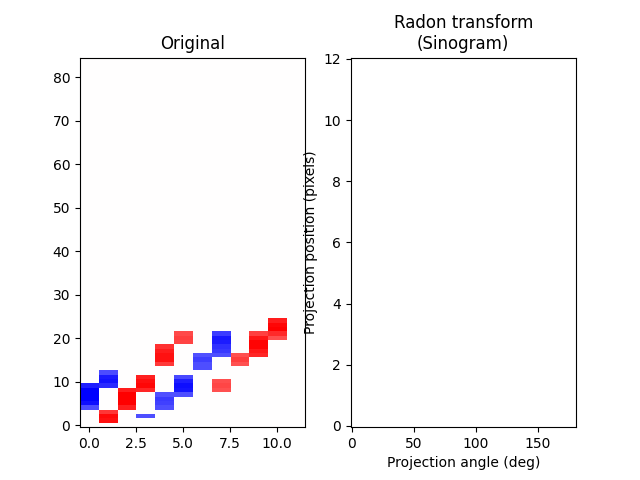
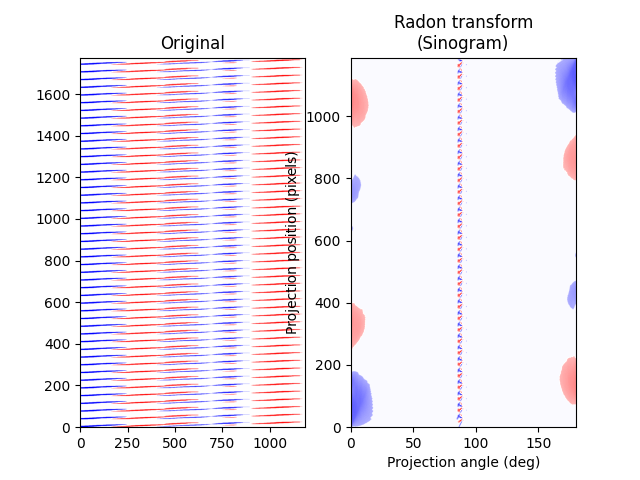
refractor

diff --git a/RadonWake.py b/RadonWake.py
@@ -38,14 +38,16 @@ from DASFilter import bandpass_f,WeightMatrix
 from numpy import NaN
 import skimage 
 from skimage.transform import radon
+from scipy import stats
+
 def PlotRadon(ShowDataSlice):
     fig, (ax1, ax2) = plt.subplots(1, 2)
     ax1.set_title("Original")
     ax1.imshow(ShowDataSlice, aspect='auto',cmap="bwr",origin='lower',vmin=-3,vmax=3)
     theta = np.linspace(0., 180., max(ShowDataSlice.shape), endpoint=False)
-    #theta=np.linspace(0.0,180.0,18000)
+    #theta=np.linspace(0.0,180.0,12,endpoint=False)
     sinogram = radon(ShowDataSlice, theta=theta)
-
+    print(sinogram.shape)
     sinogram=(sinogram-np.mean(sinogram))/np.std(sinogram,ddof=1)
     STD=2*np.std(sinogram,ddof=1)
     sinogram=((sinogram>STD)|(sinogram<-STD))*sinogram
@@ -63,15 +65,19 @@ def PlotRadon(ShowDataSlice):
 
 def SpeedOnRadon(sinogram,resolution,channel_spacing,fs,scaling,WAVEDIRECT):
 #求解最大的斜率
-   
+    
     #求解最大的斜率，平均每行的最大值索引
+    #sinogram=abs(sinogram)
     deg_y_list=[]
     sino=[]
     for i in range(0,sinogram.shape[0]):
         sino.append(np.max(sinogram[i,:]))
-        if WAVEDIRECT==0:
+        if WAVEDIRECT==0:  #考虑45-90
             deg_y=np.argmax(sinogram[i,0:int(sinogram.shape[1]/2)])%sinogram.shape[1]/resolution*180
-        elif WAVEDIRECT==1:
+            deg_y=(int(sinogram.shape[1]/4)+np.argmax(sinogram[i,int(sinogram.shape[1]/4):int(sinogram.shape[1]/2)]))%sinogram.shape[1]/resolution*180
+            #print(deg_y)
+
+        elif WAVEDIRECT==1: #考虑135-180
             deg_y=(int(sinogram.shape[1]/2)+np.argmax(sinogram[i,int(sinogram.shape[1]/2):-1]))%sinogram.shape[1]/resolution*180
         else:
             deg_y=np.argmax(sinogram[i,:])%sinogram.shape[1]/resolution*180
@@ -84,11 +90,11 @@ def SpeedOnRadon(sinogram,resolution,channel_spacing,fs,scaling,WAVEDIRECT):
     if tan(radians(np.mean(deg_y_list)))==0:
         s1=NaN
     else:
-        s1=1/tan(radians(np.mean(deg_y_list)))*channel_spacing*fs/scaling
+        s1=1/tan(radians(np.mean(deg_y_list)))*channel_spacing*fs/(scaling)
     if tan(radians(np.median(deg_y_list)))==0:
         s2=NaN
     else:
-        s2=1/tan(radians(np.median(deg_y_list)))*channel_spacing*fs/scaling
+        s2=1/tan(radians(np.median(deg_y_list)))*channel_spacing*fs/(scaling)
     #print('选取Radon域上前10的最大值所对应的deg\n')
     #print('均值',s1,'中位数',s2)
     return np.mean(deg_y_list),np.median(deg_y_list),s1,s2
@@ -99,3 +105,39 @@ def SNROnRadon(sinogram):
     print('SNR on Radon domain: ',SNR)
     return SNR
 
+
+def ValidationSpeedOnRadon(speed,FILTER_Data,DownSampleRate,channel_spacing,MINTIME,MAXTIME,MINCHANNEL,MAXCHANNEL,Tstart,Tend,Cstart,Cend,threshold):
+    DataCoordX, DataCoordy = FILTER_Data.shape
+
+    TDownSample = slice(0, DataCoordX, int(1000 / DownSampleRate))
+    DataDownSample = FILTER_Data[TDownSample, :]
+
+    #画图展示的数据
+
+    TimeWin = slice(int(MINTIME*60*DownSampleRate), max(-1,int(MAXTIME*60*DownSampleRate)), 1)
+    ShowData=DataDownSample[TimeWin,slice(int(MINCHANNEL*1000/channel_spacing),int(MAXCHANNEL*1000/channel_spacing),1)]
+
+    #对空间维度进行插值，使其接近时间的维度
+
+    #Z-score and threshold filtering
+    #ShowData=(ShowData-np.mean(ShowData))/np.std(ShowData,ddof=1)
+    ShowData = stats.zscore(ShowData, axis=None)
+    STD=threshold*np.std(ShowData,ddof=1)
+    ShowData=((ShowData>STD)|(ShowData<-STD))*ShowData
+    #Prepare data for radon transformation
+
+    
+    TimeWin = slice(int(Tstart*60*DownSampleRate), max(-1,int(Tend*60*DownSampleRate)), 1)
+    Cwin = slice(int(Cstart*1000/channel_spacing),max(-1,int(Cend*1000/channel_spacing)),1)
+    ShowDataSlice=(ShowData[TimeWin,Cwin])
+
+    ShowDataSlice=np.transpose((ShowDataSlice))
+
+    plt.figure()
+    plt.imshow(ShowDataSlice, aspect='auto',cmap="bwr",origin='lower',vmin=-3,vmax=3)
+    x=np.arange(1,ShowDataSlice.shape[1])
+    k=((speed)/(DownSampleRate*channel_spacing))
+    y=k*x
+    plt.plot(x,y)
+    print('Validation!')
+    plt.savefig('validation.png')

diff --git a/Trajectory_filter.py b/Trajectory_filter.py
@@ -34,10 +34,10 @@ from datetime import timedelta
 from DASFileRead import DasFileRead
 from tdms_reader_1 import *
 from AISData import AISData,AnchorShip
-from DASFilter import bandpass_f,DataDiff,WeightMatrix,PlotDAS,DASNR,DASInterpolate
+from DASFilter import bandpass_f,DataDiff,WeightMatrix,PlotDAS,DASNR,DASInterpolate,Dup_Spat_Dim,Dup_Time_Dim
 import skimage 
 from skimage.transform import radon
-from RadonWake import PlotRadon,SpeedOnRadon,SNROnRadon
+from RadonWake import PlotRadon,SpeedOnRadon,SNROnRadon,ValidationSpeedOnRadon
 from scipy import stats
 #%%Params ---------------------------------------
 # filter or not
@@ -54,10 +54,10 @@ WAVEDIRECT=0
 # Z-score and threshold filter
 threshold=2
 #radon transfromation params
-Tstart =1.8 #2.5  #minute
-Tend =2  #5.5   #minute
-Cstart =11.15 #11.15 #1800  #Km
-Cend= 11.5 #11.3 #2500    #Km
+Tstart =1.8 #2.8  #1.8   #minute
+Tend =2# 3 #2     #minute
+Cstart =11.15#10 #11.15 #1800  #Km
+Cend= 11.3#11 #11.3 #2500    #Km
 
 Cstart=max(Cstart-MINCHANNEL,0)
 Cend=min(Cend-MINCHANNEL,MAXCHANNEL)
@@ -146,9 +146,9 @@ FILTER_Data=DataDiff(FILTER_Data,1)
 #降采样
 DataCoordX, DataCoordy = FILTER_Data.shape
 print('DataCoordX',DataCoordX,'DataCoordy',DataCoordy)
-DSR=np.arange(0.1,60,0.2)
+DSR=np.arange(1,100,1)
 #DSR=np.arange(250,1000,20)
-DSR=[1]
+#DSR=[100]
 res=[]
 for DownSampleRate in DSR:
 # 对some_data 进行采样，因为原始数据每秒采样1000，可以降为200个点以方便人为的判断
@@ -175,13 +175,18 @@ for DownSampleRate in DSR:
     TimeWin = slice(int(Tstart*60*DownSampleRate), max(-1,int(Tend*60*DownSampleRate)), 1)
     Cwin = slice(int(Cstart*1000/channel_spacing),max(-1,int(Cend*1000/channel_spacing)),1)
     ShowDataSlice=(ShowData[TimeWin,Cwin])
-       
+
+    ShowDataSlice=Dup_Spat_Dim(ShowDataSlice) #增强空间维度的细节
+    ShowDataSlice=Dup_Time_Dim(ShowDataSlice) #增强时间维度的细节
+
     scaling=round(ShowDataSlice.shape[0]/ShowDataSlice.shape[1],4)
+    channel_spacing_scaling=round((ShowDataSlice.shape[0]-1)/(ShowDataSlice.shape[1]-1),4)
     print('scaling:',scaling,ShowDataSlice.shape)
     if scaling>1:
         ShowDataSlice=DASInterpolate(ShowDataSlice)
     else:
         scaling=1
+        channel_spacing_scaling=1
     print('scaling:',scaling,ShowDataSlice.shape)
 
     ShowDataSlice=np.transpose((ShowDataSlice))
@@ -190,15 +195,16 @@ for DownSampleRate in DSR:
     DASNR(ShowData)
 
     # Radon transformation and analysis
-    print(ShowDataSlice)
+    print(ShowDataSlice.shape)
     sinogram=PlotRadon(ShowDataSlice)
     print("Radon done!")
     snr=SNROnRadon(sinogram)
-    deg_mean,deg_median,s_mean,s_median=SpeedOnRadon(sinogram,max(ShowDataSlice.shape),channel_spacing,DownSampleRate,scaling,WAVEDIRECT)
+    deg_mean,deg_median,s_mean,s_median=SpeedOnRadon(sinogram,max(ShowDataSlice.shape),channel_spacing,DownSampleRate,channel_spacing_scaling,WAVEDIRECT)
     res.append((DownSampleRate,snr,deg_mean,deg_median,s_mean,s_median))
     
     print(DownSampleRate)
-
+    res.append((DownSampleRate,snr,deg_mean,deg_median,s_mean,s_median))
+    
 
 
 RES=pd.DataFrame(res,columns=['DownSampleRate',"snr","deg_mean","deg_median","s_mean",'s_median'])
@@ -230,4 +236,7 @@ s_mean = RES1['s_mean']
 
 print('波线斜率',np.mean(s_mean))
 
-
+#在ShowDataslice上补充波线斜率直线
+speed=30
+DownSampleRate = 1000
+ValidationSpeedOnRadon(speed,FILTER_Data,DownSampleRate,channel_spacing,MINTIME,MAXTIME,MINCHANNEL,MAXCHANNEL,Tstart,Tend,Cstart,Cend,threshold)

diff --git a/BoatSpeedAngel.py b/BoatSpeedAngel.py
@@ -30,7 +30,7 @@ K1=[8.476,8.304,14.97]
 L2=np.array([8,8,8,16,0])
 t2=np.array([4.2,5,12.8,19.2,1])
 K2=L2*1000/(t2*60)
-K2=[27.67,18.512,9.406]
+K2=[18,18.512,9.406]
 #%%
 
 k1=K1[ship]

diff --git a/README.md b/README.md
@@ -20,6 +20,17 @@ Trajectory_filter：1）将关于radon变换以及speed求解的功能重构成R
 
 Trajectory_filter: 1)重构PlotDAS功能以及计算DAS图像的SNR, 调整X轴和Y轴的坐标；2)遍历采样率，筛选合适SNR下的speed，输出其平均值。3）修正时间标注功能，将ET调整为ET+minute(1)
 
-20221156
+20221126
 
 1）对ShowDataSlice进行插值，使空间维度与时间维度一致，提高radon变换的分辨率，2）重构space-time diagram的标注功能，适应于不同的MINCHANNEL和MAXCHANNEL。
+
+20221127
+
+1）ShowDataSlice的空间维度决定了radon域上的角度分辨率。当空间维度较少时（波线不明显，较短时）应在空间维度上通过堆叠矩阵来增加空间维度的信息，因为只需要知道波线的斜率即可，矩阵的堆叠并不会对波线的斜率产生影响，增加了ShowDataSlice的堆叠功能
+
+2）在RadonWake里实现validation函数，以验证所求得波线斜率在ShowDataSlice上与各个波线之间的关系，是否平行。
+
+
+20221128
+
+拟增加ShowDataSlice的分辨率自动增强功能，因为多个采样率多次采样，其实对角度的提高并没有很好，主要在于欠采样的时候会严重影响波线的斜率，其次，过高的采样率会导致漫长的执行时间。
